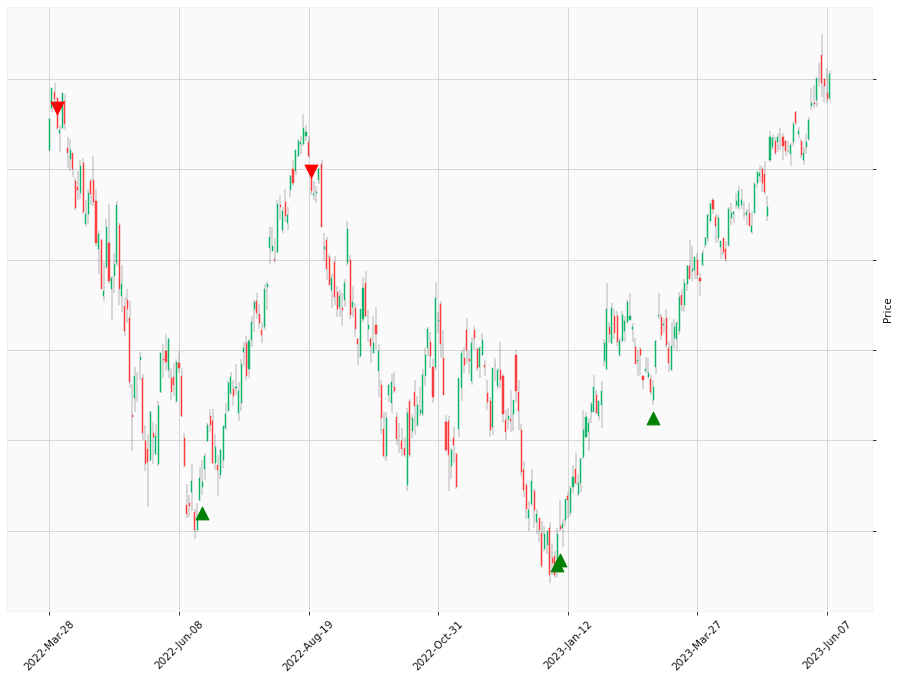
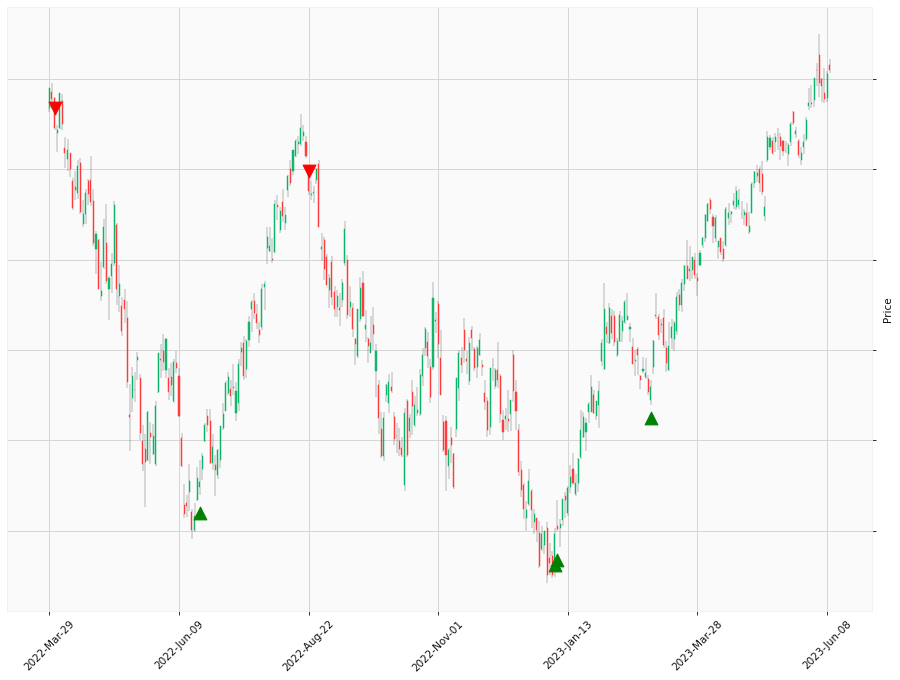
See https://github.com/HappyLabz/HappyLabz_v1/commit/92829f89d27627d60adcd8d88f580e4dd6d3493e from refs/heads/main

Changed region(s): [[0.0311, 0.1235, 0.9022, 0.8647], [0.9022, 0.0618, 0.9333, 0.1544], [0.4667, 0.9265, 0.4978, 0.9882]]

diff --git a/index.md b/index.md
@@ -92,35 +92,35 @@
         <h2 id="aapl"><a href="{% link navigation/blocked.md %}">AAPL</a></h2>
         <ul>
             <li>LAST: <b><span style="color: #167816;">Long</span></b> Mar 02 2023 15:00 PST</li>
-            <li>DELTA: <b><span style="color: #167816;">34.66 (23.75%)</span></b> as of close<br>Jun 08 2023</li>
+            <li>DELTA: <b><span style="color: #167816;">35.05 (24.02%)</span></b> as of close<br>Jun 09 2023</li>
         </ul>
     </div>
-    <div class="box red atUpperPriceLine atLowerPriceLine" onclick="location.href='{% link navigation/blocked.md %}';">
+    <div class="box red atUpperPriceLine" onclick="location.href='{% link navigation/blocked.md %}';">
         <h2 id="amzn"><a href="{% link navigation/blocked.md %}">AMZN</a></h2>
         <ul>
             <li>LAST: <b><span style="color: #b91c1c;">Short</span></b> Jun 08 2023 15:00 PST</li>
-            <li>DELTA: <b><span style="color: #b91c1c;">0.00 (0.00%)</span></b> as of close<br>Jun 08 2023</li>
+            <li>DELTA: <b><span style="color: #b91c1c;">-0.82 (-0.66%)</span></b> as of close<br>Jun 09 2023</li>
         </ul>
     </div>
     <div class="box gray" onclick="location.href='{% link navigation/blocked.md %}';">
         <h2 id="msft"><a href="{% link navigation/blocked.md %}">MSFT</a></h2>
         <ul>
-            <li>LAST: <b><span style="color: #167816;">Long</span></b> Mar 03 2023 15:00 PST</li>
-            <li>DELTA: <b><span style="color: #167816;">69.97 (27.41%)</span></b> as of close<br>Jun 08 2023</li>
+            <li>LAST: <b><span style="color: #b91c1c;">Short</span></b> Jun 07 2023 15:00 PST</li>
+            <li>DELTA: <b><span style="color: #167816;">3.41 (1.05%)</span></b> as of close<br>Jun 09 2023</li>
         </ul>
     </div>
-    <div class="box gray atUpperPriceLine" onclick="location.href='{% link TSLA.md %}';">
+    <div class="box gray" onclick="location.href='{% link TSLA.md %}';">
         <h2 id="tsla"><a href="{% link TSLA.md %}">TSLA <span style="color:#0369a1;">&bigstar;</span></a></h2>
         <ul>
             <li>LAST: <b><span style="color: #167816;">Long</span></b> Apr 24 2023 15:00 PST</li>
-            <li>DELTA: <b><span style="color: #167816;">72.31 (44.48%)</span></b> as of close<br>Jun 08 2023</li>
+            <li>DELTA: <b><span style="color: #167816;">81.85 (50.35%)</span></b> as of close<br>Jun 09 2023</li>
         </ul>
     </div>
-    <div class="box gray atUpperPriceLine" onclick="location.href='{% link navigation/blocked.md %}';">
+    <div class="box gray atUpperPriceLine atLowerPriceLine" onclick="location.href='{% link navigation/blocked.md %}';">
         <h2 id="spy"><a href="{% link navigation/blocked.md %}">SPY</a></h2>
         <ul>
             <li>LAST: <b><span style="color: #167816;">Long</span></b> Mar 14 2023 15:00 PST</li>
-            <li>DELTA: <b><span style="color: #167816;">37.40 (9.55%)</span></b> as of close<br>Jun 08 2023</li>
+            <li>DELTA: <b><span style="color: #167816;">38.17 (9.74%)</span></b> as of close<br>Jun 09 2023</li>
         </ul>
     </div>
     <div class="box gray" onclick="location.href='{% link NEXT.md %}';">

diff --git a/MSFT.md b/MSFT.md
@@ -72,9 +72,17 @@
         <td>5</td>
         <td>Long</td>
         <td>Mar 03 2023 Close</td>
-        <td>27.41 %</td>
-        <td>44.38 %</td>
-        <td>49.15 %</td>
+        <td>26.67 %</td>
+        <td>43.65 %</td>
+        <td>48.28 %</td>
+    </tr>
+    <tr>
+        <td>6</td>
+        <td>Short</td>
+        <td>Jun 07 2023 Close</td>
+        <td>1.05 %</td>
+        <td>42.59 %</td>
+        <td>46.72 %</td>
     </tr>
     
 </table>
@@ -90,23 +98,23 @@
     <tbody>
         <tr>
             <td>MSFT (Buy and Hold)</td>
-            <td>2022-03-30 Close <b>-</b> 2023-06-08 Close</td>
-            <td>3.63 %</td>
+            <td>2022-03-30 Close <b>-</b> 2023-06-09 Close</td>
+            <td>4.12 %</td>
         </tr>
         <tr>
             <td>MSFT (HLT Cumulative % Gain)</td>
-            <td>2022-03-30 Close <b>-</b> 2023-06-08 Close</td>
-            <td>44.38 %</td>
+            <td>2022-03-30 Close <b>-</b> 2023-06-09 Close</td>
+            <td>42.59 %</td>
         </tr>
         <tr>
             <td>MSFT (HLT Reinvested % Gain)</td>
-            <td>2022-03-30 Close <b>-</b> 2023-06-08 Close</td>
-            <td>49.15 %</td>
+            <td>2022-03-30 Close <b>-</b> 2023-06-09 Close</td>
+            <td>46.72 %</td>
         </tr>
         <tr>
             <td>S&P 500 (Buy and Hold)</td>
-            <td>2022-03-30 Close <b>-</b> 2023-06-08 Close</td>
-            <td>-6.45 %</td>
+            <td>2022-03-30 Close <b>-</b> 2023-06-09 Close</td>
+            <td>-6.28 %</td>
         </tr>
     </tbody>
 </table>

diff --git a/AAPL.md b/AAPL.md
@@ -80,9 +80,9 @@
         <td>6</td>
         <td>Long</td>
         <td>Mar 02 2023 Close</td>
-        <td>23.75 %</td>
-        <td>105.21 %</td>
-        <td>159.09 %</td>
+        <td>24.02 %</td>
+        <td>105.48 %</td>
+        <td>159.65 %</td>
     </tr>
     
 </table>
@@ -98,23 +98,23 @@
     <tbody>
         <tr>
             <td>AAPL (Buy and Hold)</td>
-            <td>2022-03-31 Close <b>-</b> 2023-06-08 Close</td>
-            <td>3.41 %</td>
+            <td>2022-03-31 Close <b>-</b> 2023-06-09 Close</td>
+            <td>3.64 %</td>
         </tr>
         <tr>
             <td>AAPL (HLT Cumulative % Gain)</td>
-            <td>2022-03-31 Close <b>-</b> 2023-06-08 Close</td>
-            <td>105.21 %</td>
+            <td>2022-03-31 Close <b>-</b> 2023-06-09 Close</td>
+            <td>105.48 %</td>
         </tr>
         <tr>
             <td>AAPL (HLT Reinvested % Gain)</td>
-            <td>2022-03-31 Close <b>-</b> 2023-06-08 Close</td>
-            <td>159.09 %</td>
+            <td>2022-03-31 Close <b>-</b> 2023-06-09 Close</td>
+            <td>159.65 %</td>
         </tr>
         <tr>
             <td>S&P 500 (Buy and Hold)</td>
-            <td>2022-03-31 Close <b>-</b> 2023-06-08 Close</td>
-            <td>-4.98 %</td>
+            <td>2022-03-31 Close <b>-</b> 2023-06-09 Close</td>
+            <td>-4.81 %</td>
         </tr>
     </tbody>
 </table>

diff --git a/AMZN.md b/AMZN.md
@@ -88,9 +88,9 @@
         <td>7</td>
         <td>Short</td>
         <td>Jun 08 2023 Close</td>
-        <td>0.00 %</td>
-        <td>81.35 %</td>
-        <td>97.29 %</td>
+        <td>-0.66 %</td>
+        <td>82.01 %</td>
+        <td>98.59 %</td>
     </tr>
     
 </table>
@@ -106,23 +106,23 @@
     <tbody>
         <tr>
             <td>AMZN (Buy and Hold)</td>
-            <td>2022-05-04 Close <b>-</b> 2023-06-08 Close</td>
-            <td>-1.33 %</td>
+            <td>2022-05-04 Close <b>-</b> 2023-06-09 Close</td>
+            <td>-1.98 %</td>
         </tr>
         <tr>
             <td>AMZN (HLT Cumulative % Gain)</td>
-            <td>2022-05-04 Close <b>-</b> 2023-06-08 Close</td>
-            <td>81.35 %</td>
+            <td>2022-05-04 Close <b>-</b> 2023-06-09 Close</td>
+            <td>82.01 %</td>
         </tr>
         <tr>
             <td>AMZN (HLT Reinvested % Gain)</td>
-            <td>2022-05-04 Close <b>-</b> 2023-06-08 Close</td>
-            <td>97.29 %</td>
+            <td>2022-05-04 Close <b>-</b> 2023-06-09 Close</td>
+            <td>98.59 %</td>
         </tr>
         <tr>
             <td>S&P 500 (Buy and Hold)</td>
-            <td>2022-05-04 Close <b>-</b> 2023-06-08 Close</td>
-            <td>0.02 %</td>
+            <td>2022-05-04 Close <b>-</b> 2023-06-09 Close</td>
+            <td>0.20 %</td>
         </tr>
     </tbody>
 </table>
